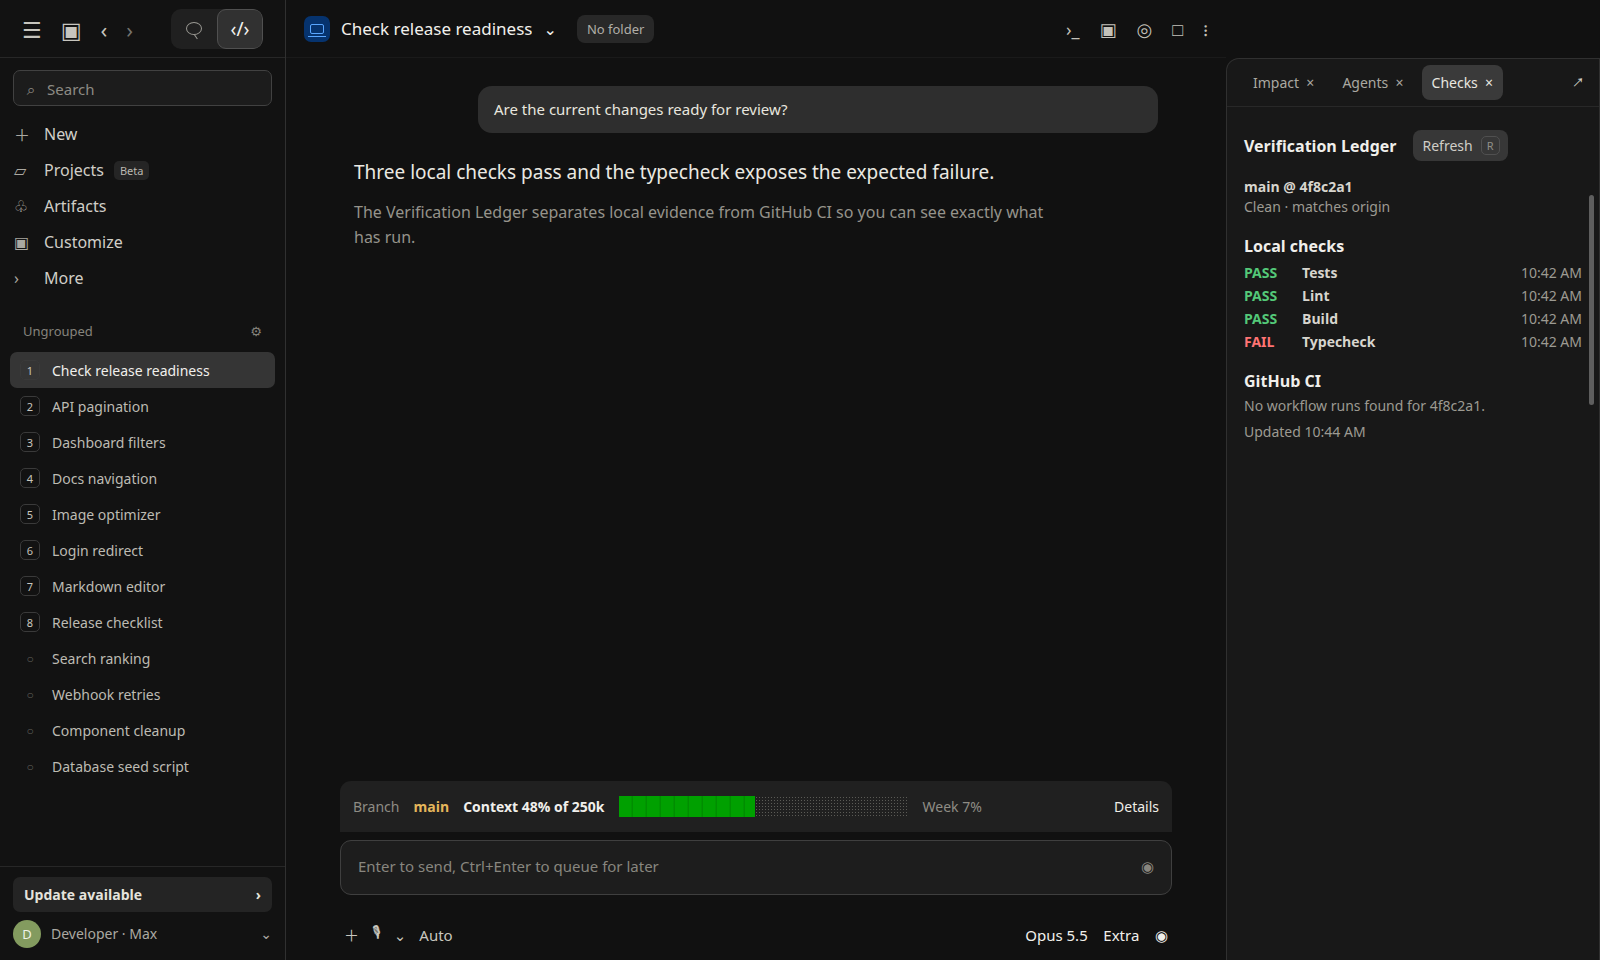
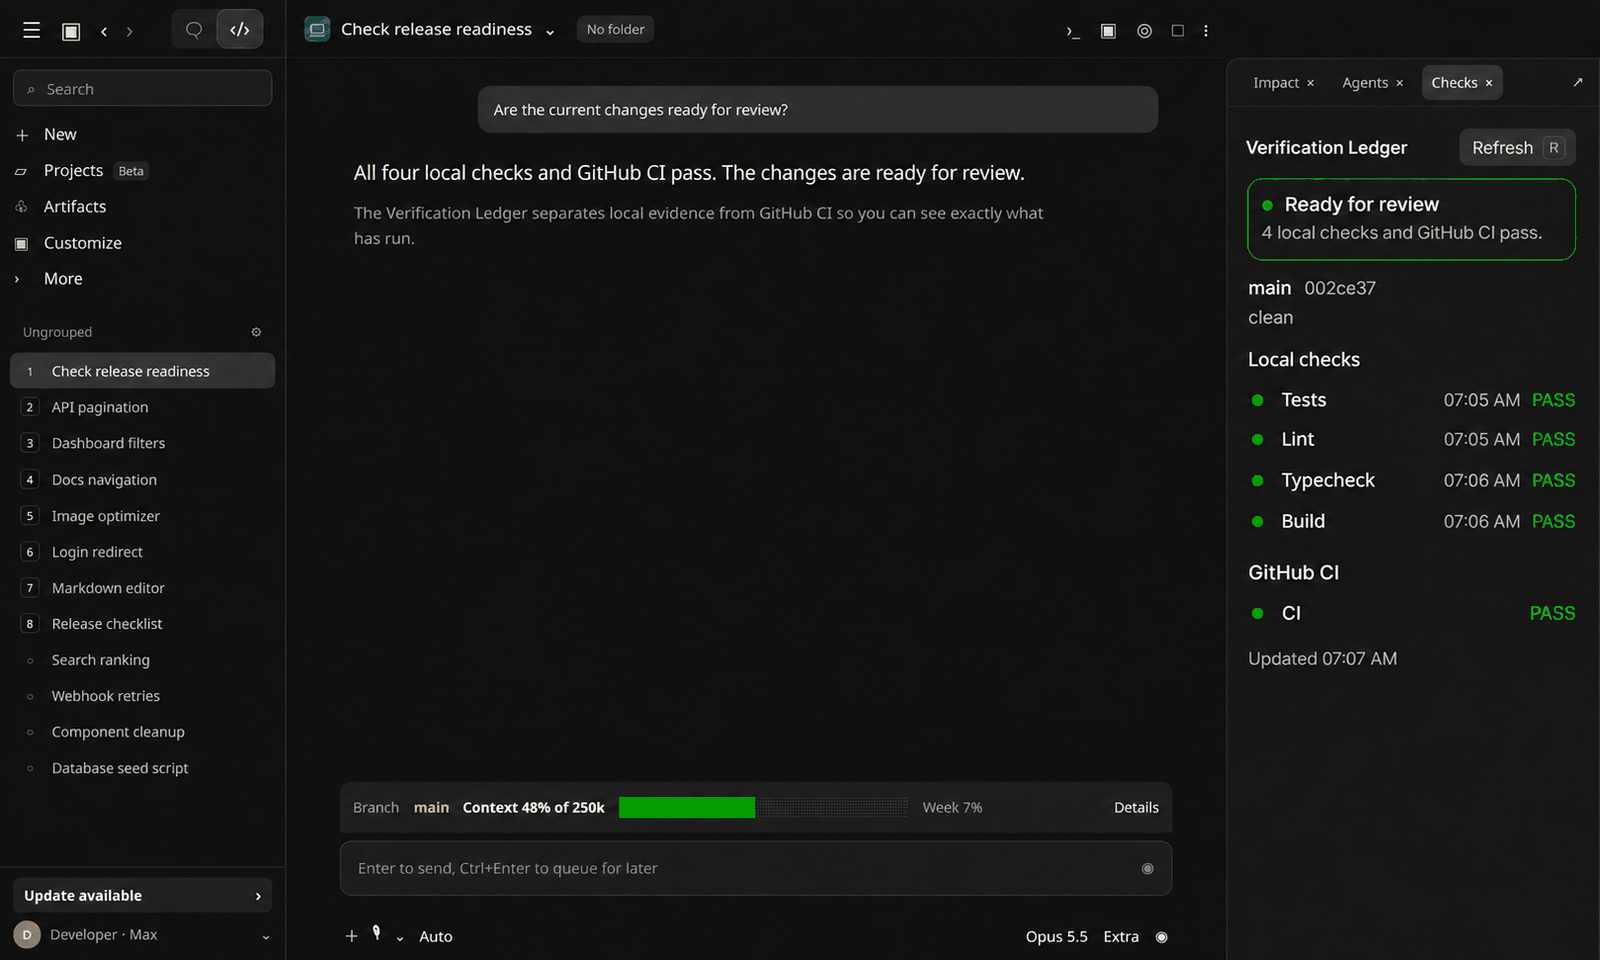
feat: redesign verification ledger dashboard

diff --git a/verification-ledger/hooks/register.tsx b/verification-ledger/hooks/register.tsx
@@ -2,6 +2,7 @@ import type { EngineInterface, Register } from 'claude-code'
 import { CI_POLL_INTERVAL_MS, MAX_CI_RUNS } from './config.ts'
 
 const PANE = 'verification-ledger'
+const CHECK_ORDER: CheckKind[] = ['verify', 'test', 'lint', 'typecheck', 'build']
 
 type CheckKind = 'verify' | 'test' | 'lint' | 'typecheck' | 'build'
 type ResultStatus = 'pass' | 'fail'
@@ -39,6 +40,12 @@ type CiRun = {
 type CommandResult = {
   exitCode: number
   stdout: string
+}
+
+type LedgerSummary = {
+  headline: string
+  detail: string
+  color: 'success' | 'error' | 'warning' | 'inactive'
 }
 
 const checks = new Map<CheckKind, LocalCheck>()
@@ -322,7 +329,7 @@ function statusColor(status: DisplayStatus): 'success' | 'error' | 'warning' | '
 }
 
 function statusLabel(status: DisplayStatus): string {
-  return status.toUpperCase().padEnd(7)
+  return status.toUpperCase()
 }
 
 function timeLabel(value: number | null): string {
@@ -336,6 +343,71 @@ function branchState(): string {
   if (git.behind !== null && git.behind > 0) parts.push(`${git.behind} behind`)
   if (git.ahead === null) parts.push('no upstream')
   return parts.join(' · ')
+}
+
+function countLabel(count: number, singular: string): string {
+  return `${count} ${singular}${count === 1 ? '' : 's'}`
+}
+
+function ledgerSummary(localChecks: readonly LocalCheck[]): LedgerSummary {
+  const localResults = localChecks.map(check => ({ check, status: localStatus(check) }))
+  const failed = localResults.filter(result => result.status === 'fail')
+  const stale = localResults.filter(result => result.status === 'stale')
+  const remote = ciOverall(ciRuns)
+
+  if (failed.length > 0) {
+    return {
+      headline: `${countLabel(failed.length, 'check')} failed`,
+      detail: `Fix ${failed[0].check.label}${failed.length > 1 ? ` and ${failed.length - 1} more` : ''} before review.`,
+      color: 'error',
+    }
+  }
+
+  if (remote === 'fail') {
+    return {
+      headline: 'GitHub CI failed',
+      detail: 'Open the failed workflow below before review.',
+      color: 'error',
+    }
+  }
+
+  if (stale.length > 0) {
+    return {
+      headline: 'Checks need a rerun',
+      detail: `Rerun ${stale[0].check.label}${stale.length > 1 ? ` and ${stale.length - 1} more` : ''} after the latest changes.`,
+      color: 'warning',
+    }
+  }
+
+  if (remote === 'running') {
+    return {
+      headline: 'GitHub CI is running',
+      detail: localChecks.length > 0 ? 'Local checks pass. Waiting for the workflow.' : 'Waiting for the workflow to finish.',
+      color: 'warning',
+    }
+  }
+
+  if (localChecks.length === 0) {
+    return {
+      headline: git.root ? 'No checks yet' : 'No repository detected',
+      detail: git.root ? 'Run tests, lint, typecheck, build, or verify.' : 'Open a Git project to track release readiness.',
+      color: 'inactive',
+    }
+  }
+
+  if (remote === 'pass' && git.dirtyFiles === 0) {
+    return {
+      headline: 'Ready for review',
+      detail: 'Local checks and GitHub CI are current.',
+      color: 'success',
+    }
+  }
+
+  return {
+    headline: 'Local checks pass',
+    detail: `${countLabel(localChecks.length, 'check')} current. No passing CI result for this commit.`,
+    color: 'success',
+  }
 }
 
 export const register: Register = on => {
@@ -448,32 +520,55 @@ export const register: Register = on => {
 
   on('ui.render', { component: 'Pane', requestId: PANE }, ($, event) => {
     const { Box, Button, Link, Text } = $.ui.resolve(event)
-    const localChecks = [...checks.values()]
+    const localChecks = CHECK_ORDER
+      .map(kind => checks.get(kind))
+      .filter((check): check is LocalCheck => check !== undefined)
+    const summary = ledgerSummary(localChecks)
 
     return (
       <Box flexDirection="column" gap={1}>
-        <Box gap={2}>
-          <Text bold>Verification Ledger</Text>
+        <Box justifyContent="space-between" alignItems="center" gap={1} overflow="hidden">
+          <Box flexGrow={1} flexShrink={1} minWidth={0}>
+            <Text bold wrap="truncate-end">Verification Ledger</Text>
+          </Box>
           <Button
             key="refresh"
             label={refreshTask ? 'Refreshing' : 'Refresh'}
             hotkey="r"
+            variant="secondary"
             onPress={() => {
               void refreshAll($)
             }}
           />
         </Box>
 
+        <Box
+          flexDirection="column"
+          borderStyle="round"
+          borderColor={summary.color}
+          paddingX={1}
+          overflow="hidden"
+        >
+          <Box gap={1} overflow="hidden">
+            <Text color={summary.color} bold>●</Text>
+            <Text bold wrap="truncate-end">{summary.headline}</Text>
+          </Box>
+          <Text dimColor wrap="truncate-end">{summary.detail}</Text>
+        </Box>
+
         {git.root ? (
-          <Box flexDirection="column">
-            <Text bold>{git.branch} @ {git.shortHead}</Text>
-            <Text dimColor>{branchState()}</Text>
+          <Box flexDirection="column" overflow="hidden">
+            <Box gap={1} overflow="hidden">
+              <Text bold wrap="truncate-middle">{git.branch}</Text>
+              <Text dimColor>{git.shortHead}</Text>
+            </Box>
+            <Text dimColor wrap="truncate-end">{branchState()}</Text>
           </Box>
         ) : (
-          <Text color="warning">Not inside a Git repository.</Text>
+          <Text dimColor>Git status unavailable.</Text>
         )}
 
-        <Box flexDirection="column">
+        <Box flexDirection="column" gap={1}>
           <Text bold>Local checks</Text>
           {localChecks.length === 0 ? (
             <Text dimColor>No verification commands recorded this session.</Text>
@@ -481,27 +576,47 @@ export const register: Register = on => {
             localChecks.map(check => {
               const status = localStatus(check)
               return (
-                <Box key={check.kind} gap={1}>
-                  <Text color={statusColor(status)} bold>{statusLabel(status)}</Text>
-                  <Text bold>{check.label}</Text>
-                  <Text dimColor>{timeLabel(check.completedAt)}</Text>
+                <Box
+                  key={check.kind}
+                  justifyContent="space-between"
+                  alignItems="center"
+                  gap={1}
+                  overflow="hidden"
+                >
+                  <Box gap={1} flexGrow={1} flexShrink={1} minWidth={0} overflow="hidden">
+                    <Text color={statusColor(status)}>●</Text>
+                    <Text bold wrap="truncate-end">{check.label}</Text>
+                  </Box>
+                  <Box gap={1} flexShrink={0}>
+                    <Text dimColor>{timeLabel(check.completedAt)}</Text>
+                    <Text color={statusColor(status)} bold>{statusLabel(status)}</Text>
+                  </Box>
                 </Box>
               )
             })
           )}
         </Box>
 
-        <Box flexDirection="column">
+        <Box flexDirection="column" gap={1}>
           <Text bold>GitHub CI</Text>
           {ciRuns.length === 0 ? (
-            <Text dimColor>{ciMessage}</Text>
+            <Text dimColor wrap="truncate-end">{ciMessage}</Text>
           ) : (
             ciRuns.map((run, index) => {
               const status = ciStatus(run)
               return (
-                <Box key={`${run.url}:${index}`} gap={1}>
+                <Box
+                  key={`${run.url}:${index}`}
+                  justifyContent="space-between"
+                  alignItems="center"
+                  gap={1}
+                  overflow="hidden"
+                >
+                  <Box gap={1} flexGrow={1} flexShrink={1} minWidth={0} overflow="hidden">
+                    <Text color={statusColor(status)}>●</Text>
+                    {run.url ? <Link href={run.url} label={run.name} /> : <Text wrap="truncate-end">{run.name}</Text>}
+                  </Box>
                   <Text color={statusColor(status)} bold>{statusLabel(status)}</Text>
-                  {run.url ? <Link href={run.url} label={run.name} /> : <Text>{run.name}</Text>}
                 </Box>
               )
             })

diff --git a/verification-ledger/tests/verification-ledger.test.ts b/verification-ledger/tests/verification-ledger.test.ts
@@ -101,10 +101,18 @@ test('shows local checks, staleness, and GitHub CI on terminal and desktop', asy
       props: PROPS,
     })
 
-    expect(await ui.find({ type: 'Text', text: 'STALE  ' })).toBeDefined()
+    expect(await ui.find({ type: 'Text', text: 'Checks need a rerun' })).toBeDefined()
+    expect(await ui.find({ type: 'Text', text: 'Rerun Tests after the latest changes.' })).toBeDefined()
+    expect(await ui.find({ type: 'Text', text: '1 changed' })).toBeDefined()
+    expect(await ui.find({ type: 'Text', text: 'STALE' })).toBeDefined()
     expect(await ui.find({ type: 'Text', text: 'Tests' })).toBeDefined()
     expect(await ui.find({ type: 'Text', text: 'RUNNING' })).toBeDefined()
     expect(await ui.find({ type: 'Link', text: 'CI' })).toBeDefined()
+    expect(await ui.find({
+      type: 'Button',
+      key: 'refresh',
+      props: { label: 'Refresh', variant: 'secondary' },
+    })).toBeDefined()
     await ui.unmount()
   }
 })
@@ -167,6 +175,7 @@ test('clears checks and auto-opens again after clear starts a new session', asyn
     type: 'Text',
     text: 'No verification commands recorded this session.',
   })).toBeDefined()
+  expect(await ui.find({ type: 'Text', text: 'No repository detected' })).toBeDefined()
   expect(await ui.find({ type: 'Text', text: 'Tests' })).toBeUndefined()
 
   await $.tool.call({ tool: 'Bash', command: 'npm test' })

diff --git a/verification-ledger/README.md b/verification-ledger/README.md
@@ -1,6 +1,6 @@
 # Verification Ledger
 
-Verification Ledger opens a Checks pane that combines local verification commands, current Git state, and GitHub Actions runs for the current commit.
+Verification Ledger opens a Checks pane that turns local verification commands, current Git state, and GitHub Actions runs into a live release-readiness dashboard.
 
 ![Verification Ledger showing local checks, Git state, and GitHub CI](../docs/images/verification-ledger.png)
 
@@ -15,6 +15,8 @@ Restart the session or enter `/reload-plugins` after installation.
 ## Usage
 
 The pane opens automatically after Claude finishes the first recognized verification command in a session. It opens without taking keyboard focus.
+
+The status card gives the most important result first: ready for review, a failed check, stale evidence that needs a rerun, CI still running, or no checks yet. Local checks stay in a fixed order with their time and current state aligned for quick scanning. Git and GitHub CI remain visible as supporting evidence rather than competing summaries.
 
 Open it manually or bring it back after closing it with:
 
@@ -89,9 +91,9 @@ Change the values to control how often the open pane refreshes and how many work
 3. Confirm that the Checks pane opens without taking keyboard focus.
 4. Confirm that `Tests` appears with `PASS` or `FAIL`.
 5. Ask Claude to edit a file.
-6. Reopen or refresh `/checks` and confirm that the earlier result is `STALE`.
+6. Reopen or refresh `/checks` and confirm that the status card asks for a rerun and the earlier result is `STALE`.
 7. Push a commit with GitHub Actions configured.
-8. Leave the pane open and watch the workflow move from `RUNNING` to its final state.
+8. Leave the pane open and watch the workflow move from `RUNNING` to its final state. When local checks and GitHub CI pass for a clean commit, the card should say `Ready for review`.
 
 ## Source
 

diff --git a/README.md b/README.md
@@ -14,7 +14,7 @@ Every mod is a small, independent Claude Code plugin written in TypeScript. Inst
 | [Session HUD](./session-hud/README.md) | Shows the current Git branch, context, and weekly usage with detailed session information | Switch branches or click `Details` beside the context meter |
 | [Impact Map](./impact-map/README.md) | Groups session file activity by folder with change totals and current Git diffs | Filter changed files or select one in the Impact Map |
 | [Tool Cards](./tool-cards/README.md) | Replaces normal tool-use rows with diagnostic cards for status, timing, results, and details | Ask Claude to read a file, edit code, or run a command |
-| [Verification Ledger](./verification-ledger/README.md) | Tracks local checks, Git state, and GitHub Actions | Run a recognized check or enter `/checks` |
+| [Verification Ledger](./verification-ledger/README.md) | Shows release readiness across local checks, Git state, and GitHub Actions | Run a recognized check or enter `/checks` |
 | [Agent Pulse](./agent-pulse/README.md) | Shows live subagent status, activity, elapsed time, and recent transcripts | Ask Claude to use a subagent or enter `/agent-pulse` |
 | [Work Queue](./work-queue/README.md) | Shows live progress, focused work, named blockers, ready tasks, and completed work | Ask Claude to create tasks or enter `/work-queue` |
 
